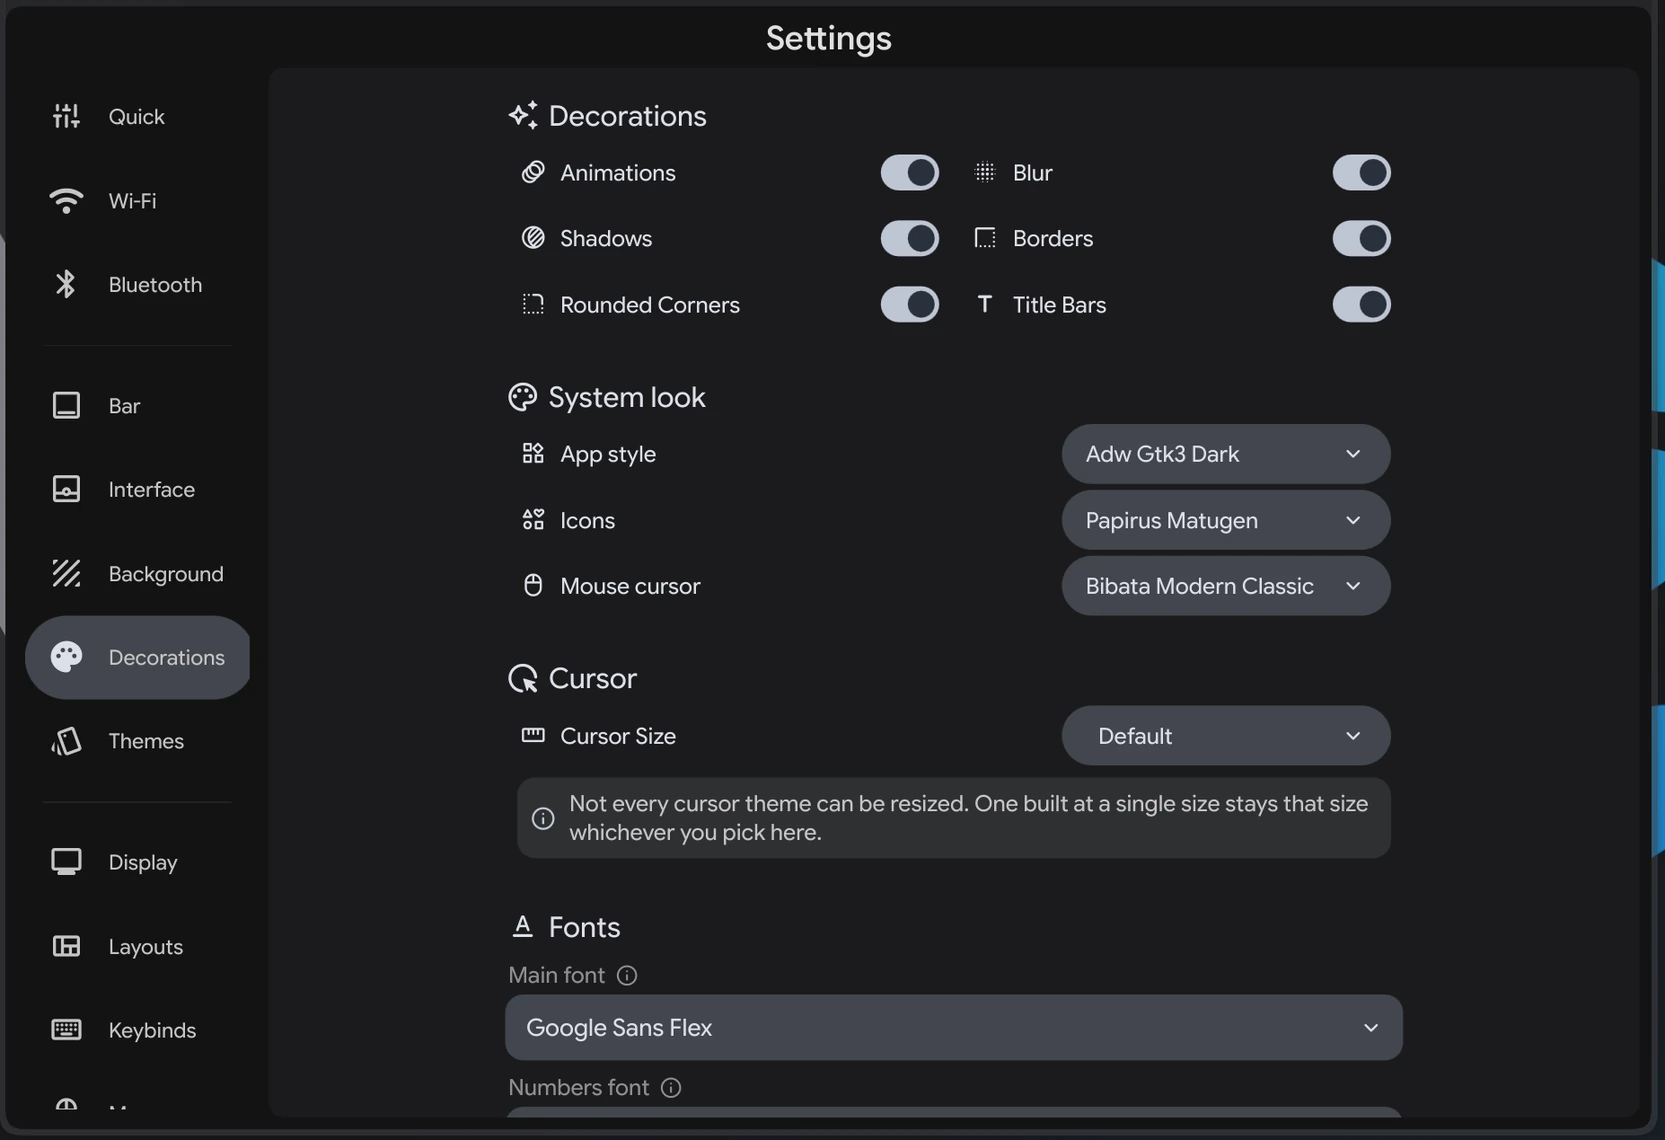
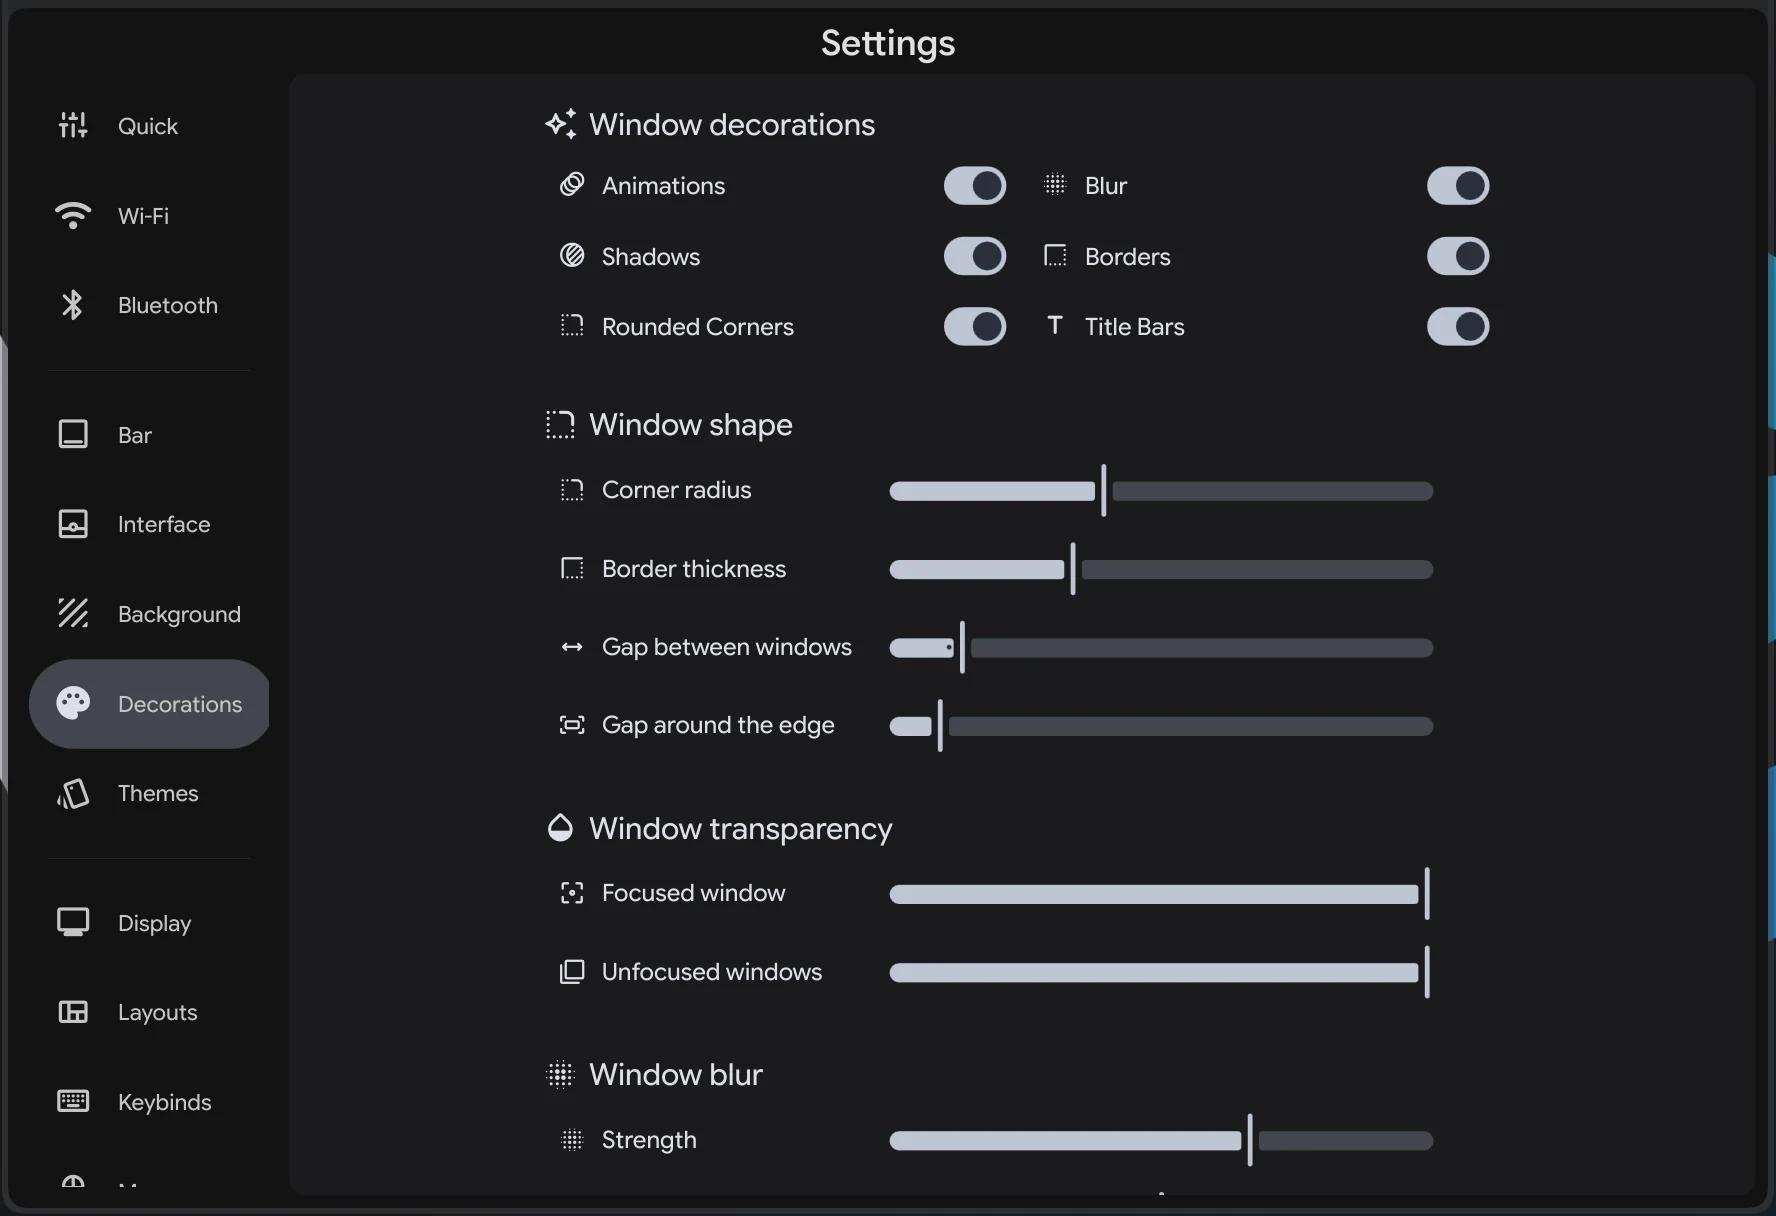
docs: document the settings pages 1.2.0 changed
Decorations grew from a handful of switches to thirteen sections, and the
Quick page gained the wallpaper slideshow. Both are covered with shots
that match what the pages actually look like now.

diff --git a/docs-pages.js b/docs-pages.js
@@ -317,11 +317,12 @@ PAGES.quick = {
     ${shot('QuickConfig.webp','Quick settings page','Settings → Quick is the everyday entry point. Every control on this page has a deeper counterpart elsewhere in Settings if you want to fine-tune.')}
 
     <h2>Wallpaper &amp; Colors</h2>
-    <p>Pick from the built-in wallpapers, or hit <strong>Choose file</strong> to use your own — a still image or a video. Mainstream extracts a Material You palette from whatever you pick and propagates the colors through the bar, sidebars, and system apps. Your login screen matches too, color scheme and all — it follows your wallpaper automatically, and each user gets their own, with no separate login background to set.</p>
+    <p>Pick from the built-in wallpapers, or hit <strong>Wallpaper</strong> to use your own — a still image or a video — or <strong>Slideshow</strong> to hand it a whole folder. Mainstream extracts a Material You palette from whatever you pick and propagates the colors through the bar, sidebars, and system apps. Your login screen matches too, color scheme and all — it follows your wallpaper automatically, and each user gets their own, with no separate login background to set.</p>
 
     <div class="props">
       <div class="prop"><center><div class="k">Default Wallpaper</div></center><div class="v">Select it to restore the default Mainstream wallpaper at any time.</div></div>
-      <div class="prop"><center><div class="k">Choose file</div></center><div class="v">Pick any image. <code>Ctrl</code>+<code>SUPER</code> (the ⊞ Windows or ⌘ Command key)+<code>T</code> is the keyboard shortcut.</div></div>
+      <div class="prop"><center><div class="k">Wallpaper</div></center><div class="v">Pick any image or video. <code>Ctrl</code>+<code>SUPER</code> (the ⊞ Windows or ⌘ Command key)+<code>T</code> is the keyboard shortcut.</div></div>
+      <div class="prop"><center><div class="k">Slideshow</div></center><div class="v">Point it at a folder instead of one picture and it moves through them on a timer. The palette follows along, so the whole desktop recolors with every change. Choosing a single wallpaper again ends it.</div></div>
       <div class="prop"><center><div class="k">Light / Dark</div></center><div class="v">Hard-switch between Mainstream's warm Day theme and the default Night. Pair with <a href="#interface">Auto theme</a> in Interface settings to follow sunrise/sunset.</div></div>
       <div class="prop"><center><div class="k">Palette style</div></center><div class="v"><span class="tag">Auto</span> <span class="tag">Content</span> <span class="tag">Expressive</span> <span class="tag">Fidelity</span> <span class="tag">Fruit Salad</span> <span class="tag">Monochrome</span> <span class="tag">Neutral</span> <span class="tag">Rainbow</span> <span class="tag">Tonal Spot</span><br/>Different Material You tonal maps. Expressive pops color the most; Monochrome strips it entirely.</div></div>
       <div class="prop"><center><div class="k">Transparency</div></center><div class="v">Toggles translucent surfaces (sidebars, notifications, dock). Turn off if you\'re on a slower GPU or prefer flat surfaces.</div></div>
@@ -614,49 +615,124 @@ PAGES.background = {
 // ---------- DECORATIONS ----------
 PAGES.decorations = {
   group: 'Settings', title: 'Decorations', icon: 'sliders',
-  lede: 'How windows are drawn, which app style and icons the rest of your programs use, how big the mouse pointer is, and which fonts everything is set in.',
+  lede: 'How windows are drawn — their shape, transparency, blur, shadow and borders — plus the app style and icons your other programs use, the pointer, the fonts, and per-app window rules.',
   render: () => `
-    ${shot('DecorationsConfig-1.webp','Decorations and system look')}
+    ${shot('DecorationsConfig-1.webp','Window decorations, shape and transparency')}
 
-    <h2>Decorations</h2>
-    <p>These six switches control how a window is drawn. Turning any of them off is a fair trade for speed on older hardware — the desktop keeps working exactly the same, it just does less painting.</p>
+    <h2>Window decorations</h2>
+    <p>Six switches for how a window is drawn. Turning any of them off is a fair trade for speed on older hardware — the desktop keeps working exactly the same, it just draws less.</p>
     <div class="props">
-      <div class="prop"><center><div class="k">Animations</div></center><div class="v">Window open and close effects, and the slide between workspaces. Turn off for the lowest possible latency.</div></div>
-      <div class="prop"><center><div class="k">Blur</div></center><div class="v">Background blur behind transparent windows and panels. Looks best on modern hardware; turn it off to save battery on integrated graphics.</div></div>
+      <div class="prop"><center><div class="k">Animations</div></center><div class="v">Window open and close effects, and the slide between workspaces. Turn off for the snappiest possible feel.</div></div>
+      <div class="prop"><center><div class="k">Blur</div></center><div class="v">Background blur behind transparent windows and panels. The most expensive thing on this page to draw.</div></div>
       <div class="prop"><center><div class="k">Shadows</div></center><div class="v">Drop shadows underneath windows.</div></div>
       <div class="prop"><center><div class="k">Borders</div></center><div class="v">Colored borders around active and inactive windows — useful for telling floating windows apart.</div></div>
       <div class="prop"><center><div class="k">Rounded Corners</div></center><div class="v">Rounded corners on windows and the bar, following your theme radius.</div></div>
-      <div class="prop"><center><div class="k">Title Bars</div></center><div class="v">Show title bars on windows, so every window keeps its close and maximize buttons. Turn off for a chromeless look — this is the same toggle as on the <a href="#layouts">Layouts</a> page.</div></div>
+      <div class="prop"><center><div class="k">Title Bars</div></center><div class="v">Show title bars on windows, so every window keeps its close and maximize buttons.</div></div>
+    </div>
+    ${callout('note','A switch turns the section off', '<p>Each switch gates the matching section further down. With <strong>Blur</strong> off, the blur sliders stop having an effect — they keep their values for when you turn it back on.</p>')}
+
+    <h2>Window shape</h2>
+    <p>The geometry every window is laid out with.</p>
+    <div class="props">
+      <div class="prop"><center><div class="k">Corner radius</div></center><div class="v">How round the corners are. All the way down is perfectly square.</div></div>
+      <div class="prop"><center><div class="k">Border thickness</div></center><div class="v">How heavy the outline around each window is.</div></div>
+      <div class="prop"><center><div class="k">Gap between windows</div></center><div class="v">The space tiled windows leave between each other.</div></div>
+      <div class="prop"><center><div class="k">Gap around the edge</div></center><div class="v">The margin between your windows and the edge of the screen.</div></div>
     </div>
 
+    <h2>Window transparency</h2>
+    <p>How much of the wallpaper shows through a window, set separately for the one you are working in and the ones you are not.</p>
+    <div class="props">
+      <div class="prop"><center><div class="k">Focused window</div></center><div class="v">The window you are currently using.</div></div>
+      <div class="prop"><center><div class="k">Unfocused windows</div></center><div class="v">Everything behind it. Dropping this a little is an easy way to see at a glance which window has your keystrokes.</div></div>
+    </div>
+
+    ${shot('DecorationsConfig-2.webp','Blur, dim, border color and shadow')}
+
+    <h2>Window blur</h2>
+    <p>What happens behind a transparent window. Needs <strong>Blur</strong> switched on above.</p>
+    <div class="props">
+      <div class="prop"><center><div class="k">Strength</div></center><div class="v">How far the blur reaches. Higher costs more to draw.</div></div>
+      <div class="prop"><center><div class="k">Noise</div></center><div class="v">A light grain over the blur, which stops large flat areas from banding.</div></div>
+      <div class="prop"><center><div class="k">Saturation</div></center><div class="v">How much color the blurred wallpaper keeps.</div></div>
+      <div class="prop"><center><div class="k">Blur through to the wallpaper</div></center><div class="v">Blur past the windows underneath and show the wallpaper instead, so a stack of windows does not muddy into itself.</div></div>
+    </div>
+
+    <h2>Window dim</h2>
+    <p>Darkens whatever you are not working in, which is the quietest way to keep your eye on the right window.</p>
+    <div class="props">
+      <div class="prop"><center><div class="k">Unfocused windows</div></center><div class="v">Whether the dimming happens at all.</div></div>
+      <div class="prop"><center><div class="k">Amount</div></center><div class="v">How dark they go. A little goes a long way.</div></div>
+    </div>
+
+    <h2>Window border color</h2>
+    <p>By default your borders are drawn from the wallpaper palette, so they change with your theme. Switch either one on to pick colors yourself instead — a gradient with as many stops as you like, at whatever angle.</p>
+    <div class="props">
+      <div class="prop"><center><div class="k">Active border</div></center><div class="v">The window you are using.</div></div>
+      <div class="prop"><center><div class="k">Inactive border</div></center><div class="v">Everything else.</div></div>
+    </div>
+    ${callout('tip','Left alone, they follow your wallpaper', '<p>Leave both switched off and the borders keep tracking your theme, so a new wallpaper restyles them without you touching this page.</p>')}
+
+    <h2>Window shadow</h2>
+    <p>The shape of the shadow under each window. Needs <strong>Shadows</strong> switched on above.</p>
+    <div class="props">
+      <div class="prop"><center><div class="k">Size</div></center><div class="v">How far the shadow spreads.</div></div>
+      <div class="prop"><center><div class="k">Falloff</div></center><div class="v">How sharply it fades at the edge — low is a soft haze, high is a defined edge.</div></div>
+      <div class="prop"><center><div class="k">Darkness</div></center><div class="v">How dark it is.</div></div>
+      <div class="prop"><center><div class="k">Offset X / Offset Y</div></center><div class="v">Which direction it falls, as though you were moving the light source.</div></div>
+    </div>
+
+    ${shot('DecorationsConfig-3.webp','Animations, reset, system look and cursor')}
+
+    <h2>Window animations</h2>
+    <p>One list, holding a whole set of curves and timings.</p>
+    <div class="props">
+      <div class="prop"><center><div class="k">Style</div></center><div class="v"><span class="tag">Expressive</span> lively, with overshoot &nbsp; <span class="tag">Smooth</span> steady and unhurried &nbsp; <span class="tag">Minimal</span> short and plain, the cheapest to draw</div></div>
+    </div>
+
+    <h2>Reset</h2>
+    <p><strong>Reset window settings</strong> puts everything above back the way it shipped. It leaves the sections below alone — your app style, icons, pointer and fonts stay as you set them.</p>
+
     <h2>System look</h2>
-    <p>The desktop follows your theme on its own. These three pick what everything <em>else</em> uses — your file manager, your browser, your text editor. Each list shows only what is actually installed, so anything you pick here will work.</p>
+    <p>The desktop follows your theme on its own. These three pick what everything <em>else</em> uses — your file manager, your browser, your text editor.</p>
     <div class="props">
       <div class="prop"><center><div class="k">App style</div></center><div class="v">The widget theme your programs are drawn with — buttons, menus, scrollbars.</div></div>
       <div class="prop"><center><div class="k">Icons</div></center><div class="v">The icon set used across the desktop and inside apps.</div></div>
       <div class="prop"><center><div class="k">Mouse cursor</div></center><div class="v">The pointer theme. Your choice survives a logout.</div></div>
     </div>
-    ${callout('tip','Saved with your themes', '<p>All three of these are captured when you save a theme, so switching themes brings the whole look with it — not just the colors. See <a href="#themes">Themes</a>.</p>')}
+    ${callout('tip','Saved with your themes', '<p>All three of these are captured when you save a theme, along with everything above, so switching themes brings the whole look with it — not just the colors.</p>')}
 
     <h2>Cursor</h2>
-    ${shot('DecorationsConfig-2.webp','Cursor size and fonts')}
     <div class="props">
-      <div class="prop"><center><div class="k">Cursor Size</div></center><div class="v"><span class="tag">Small</span> 16px &nbsp; <span class="tag">Default</span> 24px &nbsp; <span class="tag">Large</span> 32px &nbsp; <span class="tag">Larger</span> 48px &nbsp; <span class="tag">Largest</span> 64px</div></div>
+      <div class="prop"><center><div class="k">Cursor Size</div></center><div class="v"><span class="tag">Small</span> 16px &nbsp; <span class="tag">Default</span> 24px &nbsp; <span class="tag">Large</span> 32px &nbsp; <span class="tag">Larger</span> 48px</div></div>
     </div>
-    ${callout('note','Not every cursor theme can be resized', '<p>The list only offers the sizes your chosen pointer theme can actually draw, so you will sometimes see fewer than five. A theme built at a single size stays that size whichever option you pick.</p>')}
+    ${callout('note','Not every cursor theme can be resized', '<p>The list only offers the sizes your chosen pointer theme can actually draw, so you will sometimes see fewer than four. A theme built at a single size stays that size whichever you pick.</p>')}
+
+    ${shot('DecorationsConfig-4.webp','Fonts and window rules')}
 
     <h2>Fonts</h2>
-    <p>Mainstream uses <strong>Google Sans Flex</strong> and <strong>JetBrains Mono NF</strong> by default. Each list is searchable and previews every font in its own typeface, so you can see what you are choosing before you choose it. Anything installed on your system is available.</p>
+    <p>Mainstream uses <strong>Google Sans Flex</strong> and <strong>JetBrains Mono NF</strong> by default. Each list is searchable and shows every font in its own typeface, so you can read a name the way it will look.</p>
     <div class="props">
       <div class="prop"><center><div class="k">Main font</div></center><div class="v">The everyday interface font, used almost everywhere.</div></div>
       <div class="prop"><center><div class="k">Numbers font</div></center><div class="v">Clocks, counters, and readouts, where even digit widths matter.</div></div>
       <div class="prop"><center><div class="k">Title font</div></center><div class="v">Headings and larger titles.</div></div>
       <div class="prop"><center><div class="k">Monospace font</div></center><div class="v">Terminal-style text and anything that needs to line up in columns.</div></div>
-      <div class="prop"><center><div class="k">Nerd font icons</div></center><div class="v">The glyph font behind the small icons in the bar and menus. Change this only if you know the replacement carries the same glyphs.</div></div>
+      <div class="prop"><center><div class="k">Nerd font icons</div></center><div class="v">The glyph font behind the small icons in the bar and menus. Change this only for a font that carries the same glyphs.</div></div>
       <div class="prop"><center><div class="k">Reading font</div></center><div class="v">Longer passages of text, like notification bodies and the AI assistant.</div></div>
       <div class="prop"><center><div class="k">Expressive font</div></center><div class="v">The occasional display font used for emphasis.</div></div>
     </div>
-    ${callout('info','Your apps follow along', '<p>Setting the main font here also hands it to your programs, so your browser and file manager match the desktop instead of staying on the system default.</p>')}
+    ${callout('info','Your apps follow along', '<p>Setting the main font here also hands it to your programs, so your browser and file manager match the desktop instead of drifting from it.</p>')}
+
+    <h2>Window rules</h2>
+    <p>Everything above applies to every window at once. A rule is for when one app should be treated differently — a calculator that should always float, a video player that should never dim, a chat window that belongs on its own workspace.</p>
+    <p>Press <strong>Add rule</strong> and name the app you mean, either by picking it from the windows you have open or by typing what it matches. Then choose what should happen to it: where it opens, how see-through it is, whether it gets a border, a shadow, blur, or an animation at all.</p>
+    <div class="props">
+      <div class="prop"><center><div class="k">Match</div></center><div class="v">Which windows the rule is about — by app, by title, or both.</div></div>
+      <div class="prop"><center><div class="k">Effects</div></center><div class="v">What changes for them: floating, size and position, workspace, opacity, blur, shadow, border, rounding, dimming, and more.</div></div>
+      <div class="prop"><center><div class="k">Order</div></center><div class="v">Rules apply top to bottom, so when two disagree the later one wins. Use the arrows to reorder.</div></div>
+    </div>
+    ${callout('tip','Rules travel with a theme', '<p>Your rules are saved into a theme along with everything else on this page, so sharing a theme shares the behaviour you built up — not just how it looks.</p>')}
+    ${callout('note','Written to a file of its own', '<p>Rules are kept separately from anything you write by hand, so the settings page never overwrites your own Hyprland configuration.</p>')}
   `
 };
 
